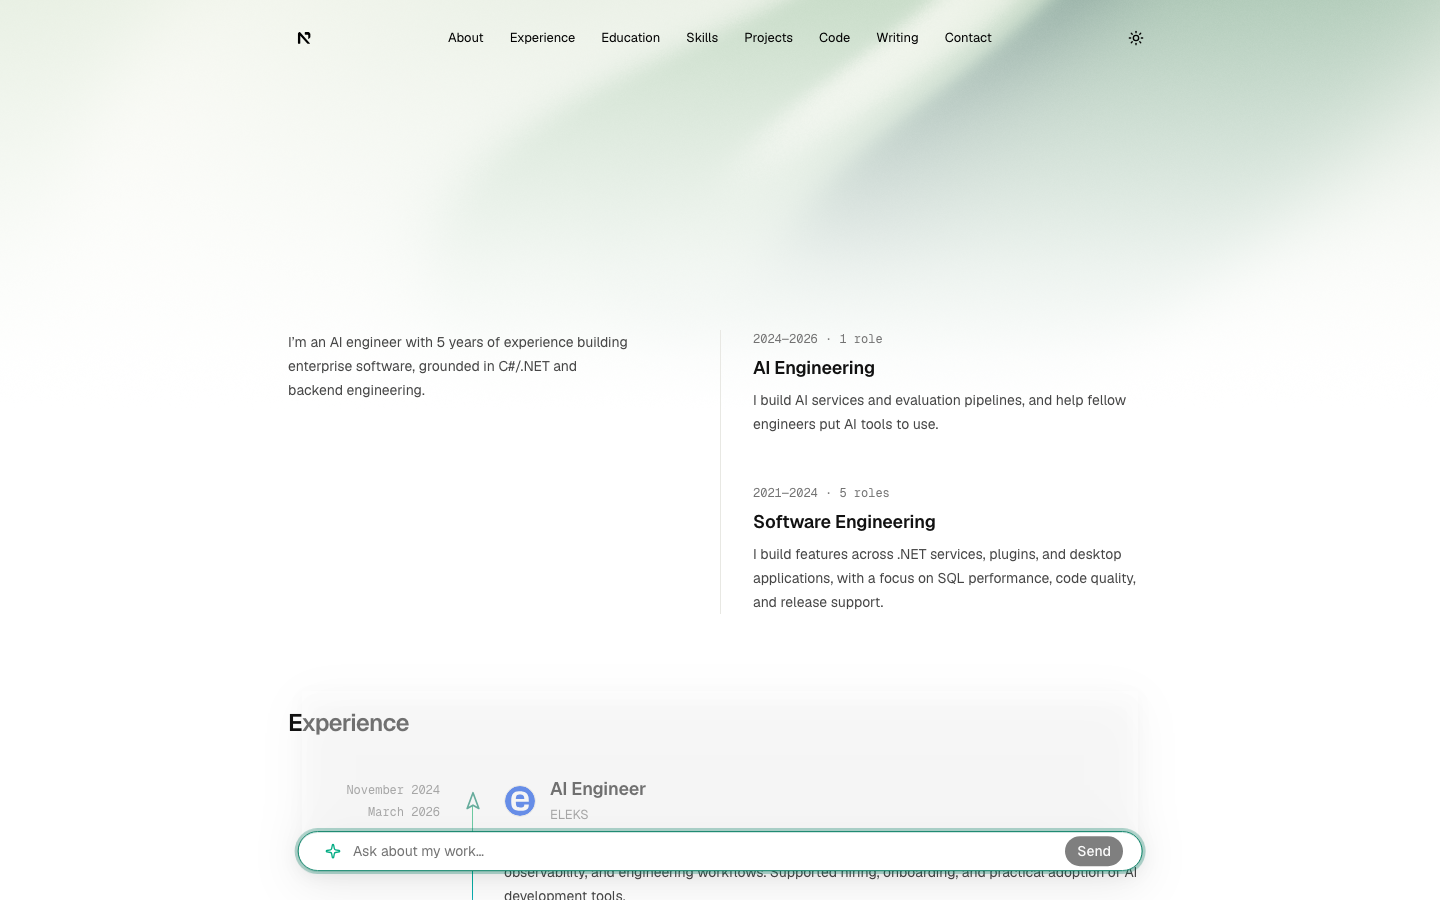
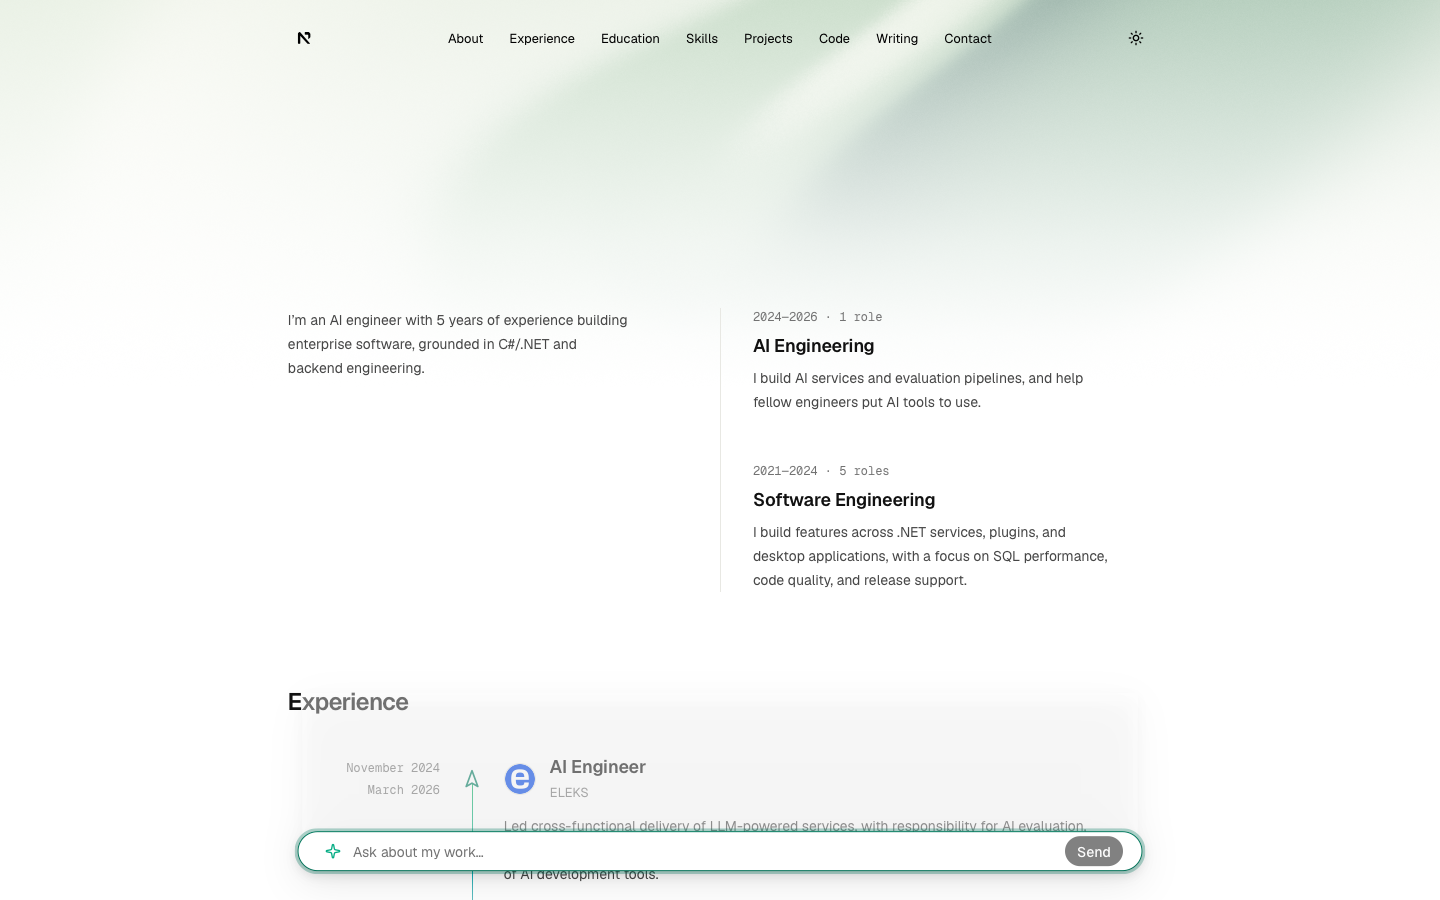
Keep Soft field shadow through Safari handoff and stabilize CI

diff --git a/tests/e2e/conversation.spec.ts b/tests/e2e/conversation.spec.ts
@@ -239,7 +239,7 @@ async function sampleEntryResize(field: Locator) {
         return { width: paint.getBoundingClientRect().width, height: paint.getBoundingClientRect().height,
           fullWidth: element.getBoundingClientRect().width, fullHeight: element.getBoundingClientRect().height,
           clip: getComputedStyle(element).clipPath, controlsWidth: controls.getBoundingClientRect().width, controlsOpacity: Number(getComputedStyle(controls).opacity),
-          accent: getComputedStyle(paint.firstElementChild ?? paint).opacity };
+          accent: getComputedStyle(paint.querySelector("[data-composer-accent]") ?? paint).opacity };
       }
       await new Promise<void>((resolve) => { requestAnimationFrame(() => { resolve(); }); });
     }
@@ -302,17 +302,19 @@ test.describe("conversation smoke", () => {
   });
 
   for (const width of [768, 1024, 1440]) {
-    test(`@webkit desktop shell alignment at ${String(width)}px`, async ({ page }) => {
-      await page.setViewportSize({ width, height: 900 });
-      await readyComposer(page);
-      const { pageGutter } = await readShellWidthContract(page);
-      const entry = await box(page.locator("[data-edge-entry]"));
-      expect(entry.x).toBeCloseTo(pageGutter, 0);
-      expect(entry.width).toBeCloseTo(width - 2 * pageGutter, 0);
+    test.describe(`shell viewport ${String(width)}px`, () => {
+      test.use({ viewport: { width, height: 900 } });
 
-      const dialog = await send(page, "Synthetic shell alignment question");
-      await expect.poll(async () => (await box(dialog)).x).toBeCloseTo(pageGutter, 0);
-      expect((await box(dialog)).width).toBeCloseTo(width - 2 * pageGutter, 0);
+      test(`@webkit desktop shell alignment at ${String(width)}px`, async ({ page }) => {
+        const { pageGutter } = await readShellWidthContract(page);
+        const entry = await box(page.locator("[data-edge-entry]"));
+        expect(entry.x).toBeCloseTo(pageGutter, 0);
+        expect(entry.width).toBeCloseTo(width - 2 * pageGutter, 0);
+
+        const dialog = await send(page, "Synthetic shell alignment question");
+        await expect.poll(async () => (await box(dialog)).x).toBeCloseTo(pageGutter, 0);
+        expect((await box(dialog)).width).toBeCloseTo(width - 2 * pageGutter, 0);
+      });
     });
   }
 
@@ -531,7 +533,7 @@ test.describe("conversation smoke", () => {
   });
 
   for (const theme of ["light", "dark"] as const) {
-    test(`@webkit first send preserves the focused field during transfer (${theme})`, async ({ page }) => {
+    test(`@webkit first send preserves field elevation and focus during transfer (${theme})`, async ({ page }) => {
       await page.emulateMedia({ colorScheme: theme, reducedMotion: "no-preference" });
       await page.addInitScript((theme) => { localStorage.setItem("theme", theme); }, theme);
       await page.reload();
@@ -544,6 +546,8 @@ test.describe("conversation smoke", () => {
         shadow: getComputedStyle(element).boxShadow,
       }));
       expect(before.shadow).not.toBe("none");
+      const beforeElevation = await entryGroup.locator("[data-composer-surface]").evaluate((element) => getComputedStyle(element).boxShadow);
+      expect(beforeElevation).not.toBe("none");
 
       await triggerAndPauseSurfaceMotion(page.getByRole("button", { name: "Send", exact: true }),
         '[data-chat-surface][data-mobile="false"] [data-slot="input-group"]', "transform");
@@ -551,16 +555,35 @@ test.describe("conversation smoke", () => {
       const input = surface.getByRole("textbox", { name: "Your question" });
       await expect(input).toBeFocused();
       const paint = surface.locator("[data-composer-surface]");
+      const elevation = surface.locator("[data-composer-elevation]");
+      await expect(elevation).toHaveCSS("box-shadow", beforeElevation);
       for (const progress of [0, 0.1, 0.5, 0.9]) {
         await surface.evaluate((element, progress) => {
+          const group = element.querySelector('[data-conversation-composer] [data-slot="input-group"]');
+          const transfer = group?.getAnimations().find(({ effect }) => effect instanceof KeyframeEffect
+            && effect.getKeyframes().some((keyframe) => keyframe.transform !== undefined));
+          if (!transfer?.effect) throw new Error("Expected the field transfer clock.");
+          const elapsed = Number(transfer.effect.getTiming().duration) * progress;
           for (const animation of element.getAnimations({ subtree: true })) {
             const end = animation.effect?.getComputedTiming().endTime;
-            if (typeof end === "number" && Number.isFinite(end)) animation.currentTime = end * progress;
+            if (typeof end === "number" && Number.isFinite(end)) animation.currentTime = Math.min(elapsed, end);
           }
         }, progress);
         await expect(input).toBeFocused();
         await expect(paint).not.toHaveCSS("box-shadow", "none");
         await expect(paint).toHaveCSS("border-color", before.border);
+        expect(await elevation.evaluate((element) => Number(getComputedStyle(element).opacity))).toBe(1);
+        const bounds = await box(paint);
+        const clip = { x: Math.floor(bounds.x) - 7, y: Math.floor(bounds.y + bounds.height / 2) - 3, width: 4, height: 6 };
+        const visibleShadow = await page.screenshot({ clip });
+        let withoutShadow: Buffer;
+        await elevation.evaluate((element) => { (element as HTMLElement).style.boxShadow = "none"; });
+        try {
+          withoutShadow = await page.screenshot({ clip });
+        } finally {
+          await elevation.evaluate((element) => { (element as HTMLElement).style.removeProperty("box-shadow"); });
+        }
+        expect(visibleShadow.equals(withoutShadow), "The neutral field shadow must paint outside its moving edge").toBe(false);
       }
 
       await finishMorph(surface);
@@ -570,6 +593,7 @@ test.describe("conversation smoke", () => {
       await expect(settledGroup).toHaveCSS("box-shadow", before.shadow);
       await expect(settledGroup).toHaveCSS("border-color", before.border);
       await expect(paint).toHaveCSS("box-shadow", "none");
+      await expect(elevation).toHaveCSS("opacity", "0");
     });
   }
 

diff --git a/components/conversation/conversation.tsx b/components/conversation/conversation.tsx
@@ -71,6 +71,7 @@ function clearSurfaceMotionStyles(surface: HTMLElement) {
   clearInlineProperties(composer, ["opacity", "transform"]);
   clearInlineProperties(surface.querySelector<HTMLElement>("[data-composer-surface]"), ["width", "height", "border-color"]);
   clearInlineProperties(surface.querySelector<HTMLElement>("[data-composer-accent]"), ["opacity"]);
+  clearInlineProperties(surface.querySelector<HTMLElement>("[data-composer-elevation]"), ["opacity"]);
   for (const element of surface.querySelectorAll<HTMLElement>("[data-composer-content]")) element.style.removeProperty("opacity");
   for (const element of surface.querySelectorAll<HTMLElement>("[data-chat-reveal], [data-conversation-history]")) element.style.removeProperty("opacity");
   surface.style.removeProperty("height");
@@ -151,8 +152,9 @@ function useSurfaceToggleMotion(
     const composer = findComposerGroup(surface);
     const paint = composer?.querySelector<HTMLElement>("[data-composer-surface]");
     const accent = composer?.querySelector<HTMLElement>("[data-composer-accent]");
+    const elevation = composer?.querySelector<HTMLElement>("[data-composer-elevation]");
     const origin = originRef.current;
-    if (!frame || !fill || !line || !composer || !paint || !accent) {
+    if (!frame || !fill || !line || !composer || !paint || !accent || !elevation) {
       cancelAnimations();
       releaseSurfaceMotion(surface, phase);
       const completion = completionRef.current;
@@ -167,6 +169,7 @@ function useSurfaceToggleMotion(
     const currentFrameClip = interrupted ? window.getComputedStyle(frame).clipPath : null;
     const currentPaint = interrupted ? paint.getBoundingClientRect() : null;
     const currentAccentOpacity = interrupted ? Number.parseFloat(window.getComputedStyle(accent).opacity) : null;
+    const currentElevationOpacity = interrupted ? Number.parseFloat(window.getComputedStyle(elevation).opacity) : null;
     const controls = Array.from(composer.querySelectorAll<HTMLElement>("[data-composer-content]"));
     const currentControlOpacity = interrupted ? controls.map((element) => Number.parseFloat(window.getComputedStyle(element).opacity)) : [];
     const currentComposerTransform = interrupted ? window.getComputedStyle(composer).transform : null;
@@ -246,6 +249,11 @@ function useSurfaceToggleMotion(
       width: [currentPaint?.width ?? (phase === "opening" ? destination.width : composerTarget.width), phase === "opening" ? composerTarget.width : destination.width],
       height: [currentPaint?.height ?? (phase === "opening" ? destination.height : composerTarget.height), phase === "opening" ? composerTarget.height : destination.height],
     }, { duration: fieldDuration, ease }));
+    // Keep Soft elevation through the entire move, then fade it once the panel's geometry is stable.
+    const elevationDelay = phase === "opening" && !openingFromLine ? fieldDuration : 0;
+    animations.push(animateMini(elevation, {
+      opacity: [currentElevationOpacity ?? (phase === "opening" && !openingFromLine ? 1 : 0), returningToField ? 1 : 0],
+    }, { delay: elevationDelay, duration: elevationDelay > 0 ? 0.12 : fieldDuration, ease }));
     animations.push(animateMini(accent, {
       opacity: [currentAccentOpacity ?? (openingFromLine ? 1 : 0), movingToLine ? 1 : 0],
     }, { delay: movingToLine ? fieldDuration * 0.6 : 0, duration: movingToLine ? fieldDuration * 0.4 : 0.18, ease }));

diff --git a/components/conversation/conversation.module.scss b/components/conversation/conversation.module.scss
@@ -12,6 +12,7 @@
   --launcher-line-height: 0.3125rem;
   --chat-shadow-contact: rgb(0 0 0 / 6%);
   --chat-shadow-ambient: rgb(0 0 0 / 9%);
+  --chat-field-shadow: 0 0.0625rem 0.1875rem var(--chat-shadow-contact), 0 0.25rem 0.75rem var(--chat-shadow-ambient);
 }
 
 :global(.dark) .shell {
@@ -387,7 +388,8 @@
     animation-name: conversation-entry-stroke-fade;
   }
 
-  .edgeEntry [data-composer-surface] {
+  .edgeEntry [data-composer-surface],
+  .surface [data-composer-elevation] {
     // Keep shadow above Safari's 4px sample strip; the group's real border and focus ring remain unclipped.
     clip-path: inset(-2rem -2rem -2px);
   }
@@ -408,7 +410,7 @@
   width: calc(100% + 2px);
   height: calc(100% + 2px);
   border-color: var(--border);
-  box-shadow: 0 0.0625rem 0.1875rem var(--chat-shadow-contact), 0 0.25rem 0.75rem var(--chat-shadow-ambient);
+  box-shadow: var(--chat-field-shadow);
   transition-delay: 0s;
 }
 

diff --git a/components/conversation/conversation-composer.tsx b/components/conversation/conversation-composer.tsx
@@ -20,7 +20,12 @@ export const conversationPlaceholder = "Ask about my work…";
  * @returns Shared field surface for editable and retained entries.
  */
 export function ConversationFieldSurface() {
-  return <span aria-hidden className={clsx("field-surface", styles.fieldSurface)} data-composer-surface><span data-composer-accent /></span>;
+  return (
+    <span aria-hidden className={clsx("field-surface", styles.fieldSurface)} data-composer-surface>
+      <span className={styles.fieldElevation} data-composer-elevation />
+      <span data-composer-accent />
+    </span>
+  );
 }
 
 /** Properties for the conversation's single active editable composer. */

diff --git a/components/conversation/conversation-composer.module.scss b/components/conversation/conversation-composer.module.scss
@@ -28,11 +28,19 @@
   transform: translateX(-50%);
 }
 
-.fieldSurface > span {
+.fieldSurface > [data-composer-accent] {
   position: absolute;
   inset: -1px;
   border-radius: inherit;
   background: var(--brand-accent-text-gradient);
+  opacity: 0;
+}
+
+.fieldElevation {
+  position: absolute;
+  inset: 0;
+  border-radius: inherit;
+  box-shadow: var(--chat-field-shadow);
   opacity: 0;
 }
 
